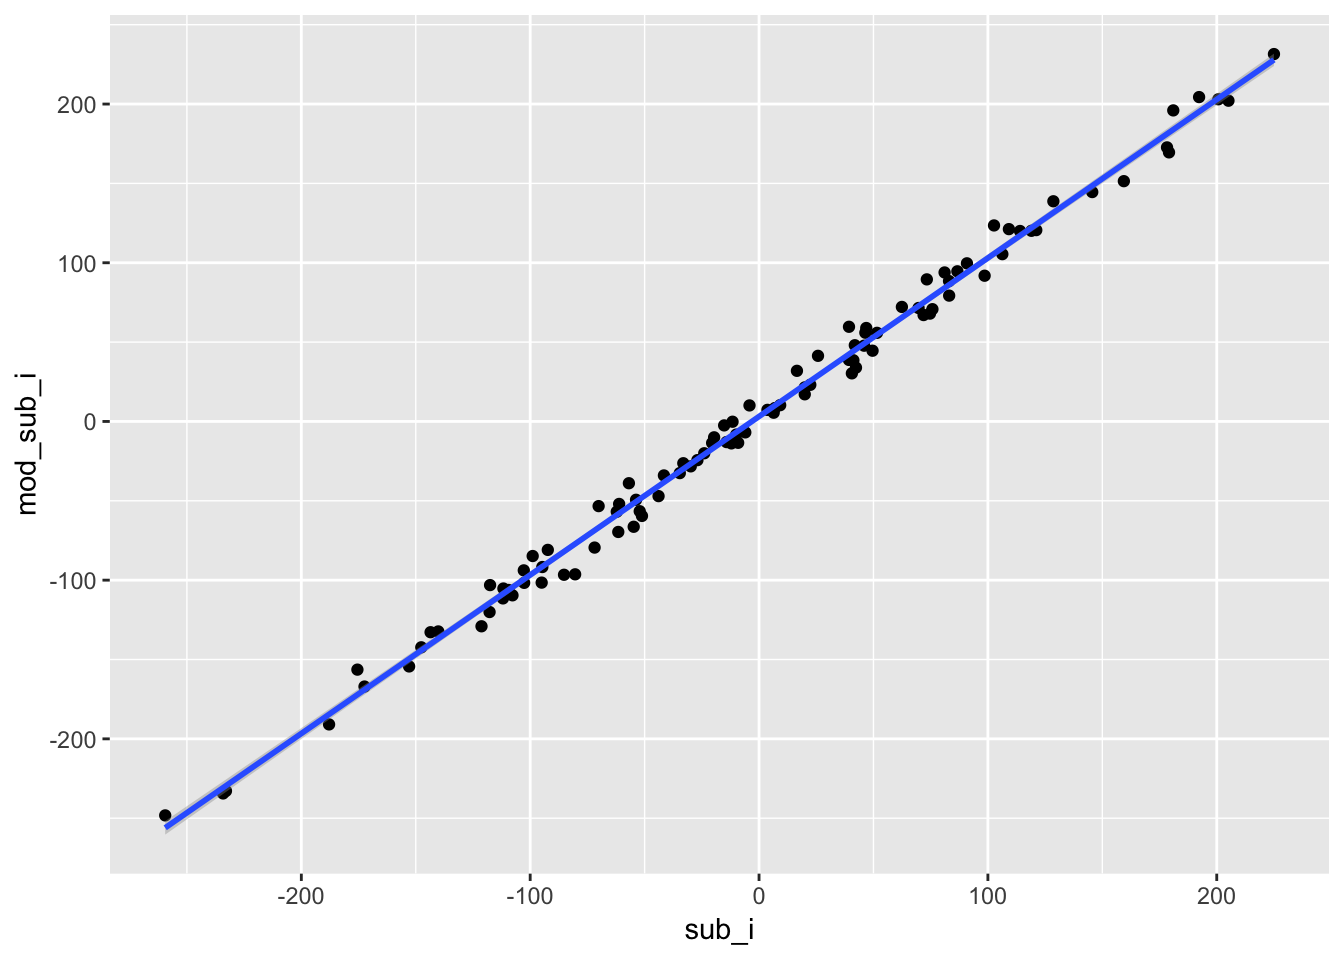
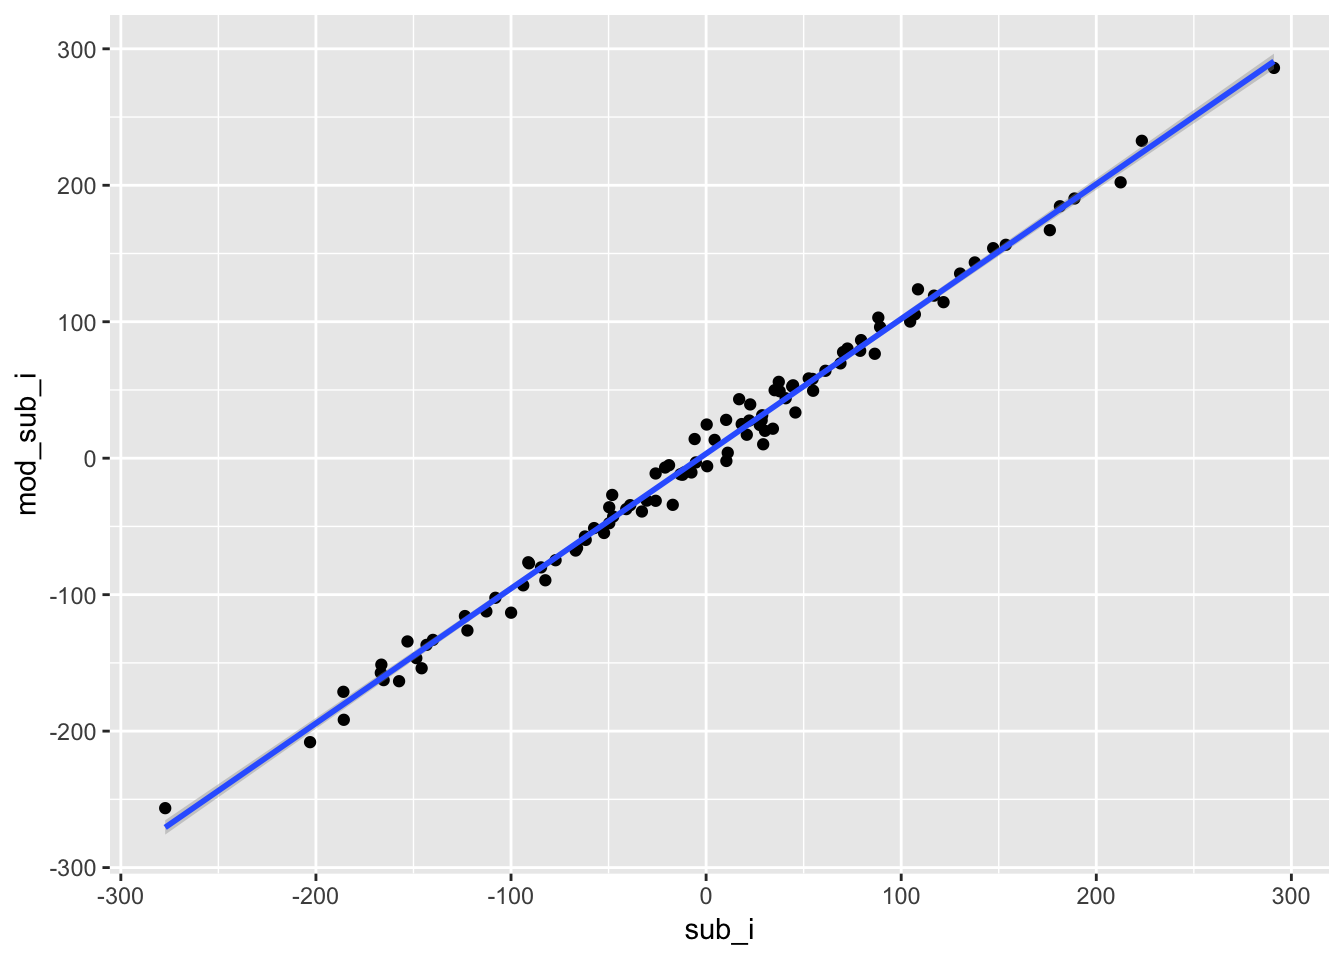
link fix

diff --git a/posts/simulating-mixed-effects/index.html b/posts/simulating-mixed-effects/index.html
@@ -168,7 +168,7 @@ stim &lt;- tibble(
 </div>
 <div id="calculate-dv" class="section level2">
 <h2>Calculate DV</h2>
-<p>Now we can calculate the DV by adding together an overall intercept (mean RT for all trials), the subject-specific intercept, the stimulus-specific intercept, the effect of subject condition, the effect of stimulus version, and an error term (we’re not including an interaction between condition and version here). We set these effects in raw units (ms) and <a href="coding-schemes.html">effect-code</a> the subject condition and stimulus version. It’s usually easiest to interpret if you recode the level that you predict will be larger as +0.5 and the level you predict will be smaller as -0.5.</p>
+<p>Now we can calculate the DV by adding together an overall intercept (mean RT for all trials), the subject-specific intercept, the stimulus-specific intercept, the effect of subject condition, the effect of stimulus version, and an error term (we’re not including an interaction between condition and version here). We set these effects in raw units (ms) and <a href="/posts/coding-schemes.html">effect-code</a> the subject condition and stimulus version. It’s usually easiest to interpret if you recode the level that you predict will be larger as +0.5 and the level you predict will be smaller as -0.5.</p>
 <pre class="r"><code># set variables to use in calculations below
 grand_i &lt;- 400
 sub_cond_eff &lt;- 50
@@ -189,7 +189,7 @@ dat &lt;- trials %&gt;%
   geom_violin(alpha = 0.5) +
   geom_boxplot(width = 0.2, position = position_dodge(width = 0.9))</code></pre>
 <p><img src="/posts/sim_lmer_files/figure-html/plot-dv-1.png" width="672" /></p>
-<p>In this simulated dataset, the grand intercept is 393.9, the mean difference between subject conditions A and B is 43.6, and the mean difference between stimulus versions is 47.7.</p>
+<p>In this simulated dataset, the grand intercept is 398.6, the mean difference between subject conditions A and B is 58.1, and the mean difference between stimulus versions is 47.4.</p>
 <div id="more-complicated-patterns" class="section level3">
 <h3>More Complicated Patterns</h3>
 <p>If you want to simulate an interaction, it can be tricky to figure out what to set the main effects and interaction effect to. It’s usually easier to think about the simple main effects for each cell. Create four new variables and set them to the deviations from the overall mean you’d expect for each condition (so they should add up to 0).</p>
@@ -235,13 +235,13 @@ dat &lt;- trials %&gt;%
 <tbody>
 <tr class="odd">
 <td align="left">A</td>
-<td align="right">-28.56929</td>
-<td align="right">19.56794</td>
+<td align="right">-31.10998</td>
+<td align="right">17.65559</td>
 </tr>
 <tr class="even">
 <td align="left">B</td>
-<td align="right">-58.23719</td>
-<td align="right">39.85261</td>
+<td align="right">-47.45405</td>
+<td align="right">52.14477</td>
 </tr>
 </tbody>
 </table>
@@ -263,25 +263,25 @@ mod.sum</code></pre>
 ## Formula: dv ~ sub_cond.e * stim_version.e + (1 | sub_id) + (1 | stim_id)
 ##    Data: dat
 ## 
-## REML criterion at convergence: 115562.6
+## REML criterion at convergence: 115520.2
 ## 
 ## Scaled residuals: 
 ##     Min      1Q  Median      3Q     Max 
-## -4.4702 -0.6666 -0.0127  0.6820  4.0021 
+## -3.9113 -0.6606  0.0021  0.6700  4.4627 
 ## 
 ## Random effects:
 ##  Groups   Name        Variance Std.Dev.
-##  sub_id   (Intercept) 11019    104.97  
-##  stim_id  (Intercept)  2504     50.04  
-##  Residual              5688     75.42  
+##  sub_id   (Intercept) 10662    103.26  
+##  stim_id  (Intercept)  2581     50.81  
+##  Residual              5665     75.27  
 ## Number of obs: 10000, groups:  sub_id, 100; stim_id, 50
 ## 
 ## Fixed effects:
 ##                           Estimate Std. Error       df t value Pr(&gt;|t|)
-## (Intercept)                393.154     12.683  145.716  30.999   &lt;2e-16
-## sub_cond.e                  -4.692     21.049   98.000  -0.223    0.824
-## stim_version.e              73.114      1.508 9849.000  48.470   &lt;2e-16
-## sub_cond.e:stim_version.e   49.953      3.017 9849.000  16.558   &lt;2e-16
+## (Intercept)                397.809     12.602  145.934  31.567   &lt;2e-16
+## sub_cond.e                   9.073     20.706   98.000   0.438    0.662
+## stim_version.e              74.182      1.505 9849.000  49.280   &lt;2e-16
+## sub_cond.e:stim_version.e   50.833      3.011 9849.000  16.884   &lt;2e-16
 ##                              
 ## (Intercept)               ***
 ## sub_cond.e                   
@@ -390,25 +390,25 @@ mod.sum</code></pre>
 ## Formula: dv ~ sub_cond.e * stim_version.e + (1 | sub_id) + (1 | stim_id)
 ##    Data: dat
 ## 
-## REML criterion at convergence: 115256.2
+## REML criterion at convergence: 115704.4
 ## 
 ## Scaled residuals: 
 ##     Min      1Q  Median      3Q     Max 
-## -4.0554 -0.6628 -0.0037  0.6799  3.4003 
+## -4.2152 -0.6768 -0.0027  0.6750  4.1328 
 ## 
 ## Random effects:
 ##  Groups   Name        Variance Std.Dev.
-##  sub_id   (Intercept) 12285    110.84  
-##  stim_id  (Intercept)  2599     50.98  
-##  Residual              5507     74.21  
+##  sub_id   (Intercept) 9859     99.29   
+##  stim_id  (Intercept) 2114     45.98   
+##  Residual             5782     76.04   
 ## Number of obs: 10000, groups:  sub_id, 100; stim_id, 50
 ## 
 ## Fixed effects:
 ##                           Estimate Std. Error       df t value Pr(&gt;|t|)
-## (Intercept)                400.655     13.243  145.290  30.254   &lt;2e-16
-## sub_cond.e                   5.346     22.218   98.000   0.241     0.81
-## stim_version.e              72.223      1.484 9849.000  48.661   &lt;2e-16
-## sub_cond.e:stim_version.e   45.592      2.968 9849.000  15.359   &lt;2e-16
+## (Intercept)                398.756     11.893  145.154   33.53   &lt;2e-16
+## sub_cond.e                  22.704     19.917   98.000    1.14    0.257
+## stim_version.e              74.213      1.521 9849.000   48.80   &lt;2e-16
+## sub_cond.e:stim_version.e   50.324      3.042 9849.000   16.55   &lt;2e-16
 ##                              
 ## (Intercept)               ***
 ## sub_cond.e                   
@@ -482,25 +482,25 @@ mod.sum</code></pre>
 ## Formula: dv ~ sub_cond.e * stim_version.e + (1 | sub_id) + (1 | stim_id)
 ##    Data: dat
 ## 
-## REML criterion at convergence: 115517.3
+## REML criterion at convergence: 115272.6
 ## 
 ## Scaled residuals: 
 ##     Min      1Q  Median      3Q     Max 
-## -3.4145 -0.6568 -0.0054  0.6712  3.4954 
+## -4.2915 -0.6666  0.0006  0.6777  3.8638 
 ## 
 ## Random effects:
 ##  Groups   Name        Variance Std.Dev.
-##  sub_id   (Intercept) 12681    112.61  
-##  stim_id  (Intercept)  1829     42.76  
-##  Residual              5663     75.25  
+##  sub_id   (Intercept) 8885     94.26   
+##  stim_id  (Intercept) 2421     49.20   
+##  Residual             5536     74.41   
 ## Number of obs: 10000, groups:  sub_id, 100; stim_id, 50
 ## 
 ## Fixed effects:
 ##                           Estimate Std. Error       df t value Pr(&gt;|t|)
-## (Intercept)                417.790     12.804  138.762  32.629   &lt;2e-16
-## sub_cond.e                   1.540     22.572   98.000   0.068    0.946
-## stim_version.e              74.810      1.505 9849.000  49.705   &lt;2e-16
-## sub_cond.e:stim_version.e   42.834      3.010 9849.000  14.230   &lt;2e-16
+## (Intercept)                387.325     11.740  145.549  32.993   &lt;2e-16
+## sub_cond.e                  28.349     18.911   98.000   1.499    0.137
+## stim_version.e              73.320      1.488 9849.000  49.271   &lt;2e-16
+## sub_cond.e:stim_version.e   54.411      2.976 9849.000  18.282   &lt;2e-16
 ##                              
 ## (Intercept)               ***
 ## sub_cond.e                   
@@ -524,29 +524,29 @@ mod.sum</code></pre>
 ## Formula: dv ~ sub_cond.e * stim_version.e + (1 | sub_id) + (1 | stim_id)
 ##    Data: dat
 ## 
-## REML criterion at convergence: 115643.4
+## REML criterion at convergence: 115263.3
 ## 
 ## Scaled residuals: 
 ##     Min      1Q  Median      3Q     Max 
-## -3.7156 -0.6595 -0.0177  0.6766  3.8256 
+## -4.1995 -0.6621 -0.0151  0.6622  3.6223 
 ## 
 ## Random effects:
 ##  Groups   Name        Variance Std.Dev.
-##  sub_id   (Intercept) 11000    104.88  
-##  stim_id  (Intercept)  2157     46.44  
-##  Residual              5740     75.76  
+##  sub_id   (Intercept) 9783     98.91   
+##  stim_id  (Intercept) 3660     60.50   
+##  Residual             5514     74.26   
 ## Number of obs: 10000, groups:  sub_id, 100; stim_id, 50
 ## 
 ## Fixed effects:
 ##                            Estimate Std. Error        df t value Pr(&gt;|t|)
-## (Intercept)                389.5586    12.3984  144.2846  31.420   &lt;2e-16
-## sub_cond.e                  48.3096    21.0312   98.0000   2.297   0.0237
-## stim_version.e               2.5881     1.5152 9849.0000   1.708   0.0877
-## sub_cond.e:stim_version.e    0.3897     3.0304 9849.0000   0.129   0.8977
+## (Intercept)                426.6896    13.0988  140.3470  32.575   &lt;2e-16
+## sub_cond.e                   7.9892    19.8376   98.0000   0.403    0.688
+## stim_version.e               0.2574     1.4852 9849.0000   0.173    0.862
+## sub_cond.e:stim_version.e    0.7570     2.9703 9849.0000   0.255    0.799
 ##                              
 ## (Intercept)               ***
-## sub_cond.e                *  
-## stim_version.e            .  
+## sub_cond.e                   
+## stim_version.e               
 ## sub_cond.e:stim_version.e    
 ## ---
 ## Signif. codes:  0 &#39;***&#39; 0.001 &#39;**&#39; 0.01 &#39;*&#39; 0.05 &#39;.&#39; 0.1 &#39; &#39; 1
